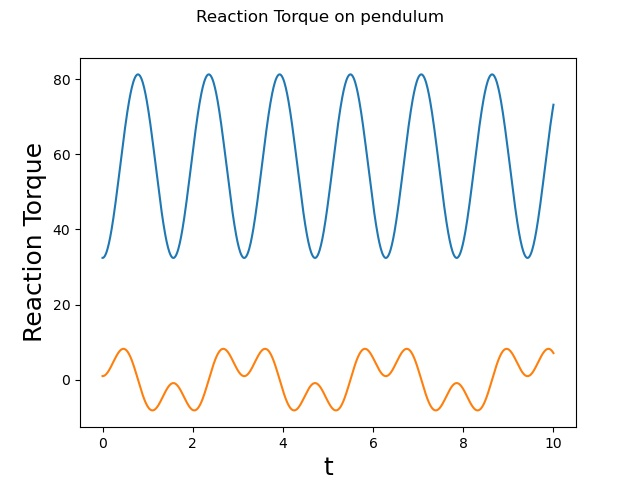
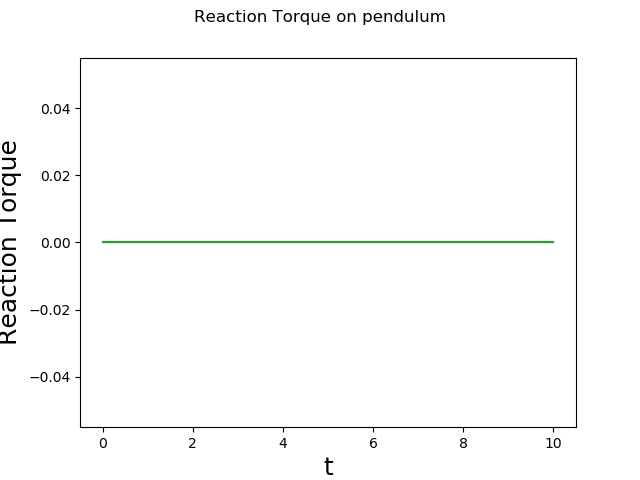
Working single-body dynamics solver

diff --git a/hw8/simEngine3D_A8P1.py b/hw8/simEngine3D_A8P1.py
@@ -1,11 +1,12 @@
 from gcons import *
+from collections import namedtuple
 import sympy as sp
 import matplotlib.pyplot as plt
 
 # Physical constants
 L = 2                                   # [m] - length of the bar
 t_start = 0                             # [s] - simulation start time
-h = 1e-3                               # [s] - time step size
+h = 1e-2                                # [s] - time step size
 t_end = 10                              # [s] - simulation end time
 w = 0.05                                # [m] - side length of bar
 ρ = 7800                                # [kg/m^3] - density of the bar
@@ -37,7 +38,7 @@ df = sp.lambdify(t, df_sym)
 ddf = sp.lambdify(t, ddf_sym)
 
 # Read from file, set up bodies + constraints
-(bodies, constraints) = ReadModelFile('hw6/revJoint.mdl')
+(bodies, constraints) = ReadModelFile('hw8/revJointSingle.mdl')
 
 pendulum = Body(bodies[0])
 ground = Body({}, True)
@@ -74,8 +75,10 @@ e_param = EulerCon(pendulum)
 z_axis = np.array([[0], [0], [1]])
 y_axis = np.array([[0], [1], [0]])
 
-p0 = (RotAxis(y_axis, np.pi/2) * RotAxis(z_axis, θ0 - np.pi/2)).arr
-r0 = np.array([[0], [L * np.sin(θ0)], [L * np.cos(θ0)]])
+# p0 = (RotAxis(y_axis, np.pi/2) * RotAxis(z_axis, θ0 - np.pi/2)).arr
+# r0 = np.array([[0], [L * np.sin(θ0)], [L * np.cos(θ0)]])
+p0 = np.array([[0.6533], [0.2706], [0.6533], [0.2706]])
+r0 = np.array([[0], [1.4142], [-1.4142]])
 q0 = np.concatenate((r0, p0), axis=0)
 
 # Didn't read these in from the file, so set them now
@@ -130,8 +133,8 @@ Jp = 4*G.T @ J @ G
 # Fg is constant, defined above
 
 # Here we solve the larger system and redundantly retrieve r̈ and p̈
-LHS_mat = np.block([[M, np.zeros((3*nb, 4*nb)), np.zeros((3*nb, nb)), Φ_r.T], [np.zeros((4*nb, 3*nb)), Jp, pendulum.p, Φ_p.T], [
-    np.zeros((nb, 3*nb)), pendulum.p.T, 0, np.zeros((nb, nc))], [Φ_r, Φ_p, np.zeros((nc, nb)), np.zeros((nc, nc))]])
+LHS_mat = np.block([[M, np.zeros((3*nb, 4*nb)), np.zeros((3*nb, nb)), Φ_r.T], [np.zeros((4*nb, 3*nb)), Jp, 2*pendulum.p, Φ_p.T], [
+    np.zeros((nb, 3*nb)), 2*pendulum.p.T, 0, np.zeros((nb, nc))], [Φ_r, Φ_p, np.zeros((nc, nb)), np.zeros((nc, nc))]])
 RHS_mat = np.block([[Fg], [τ], [γp], [γ]])
 
 z = np.linalg.solve(LHS_mat, RHS_mat)
@@ -145,50 +148,35 @@ pendulum.ddr = ddr
 pendulum.ddp = ddp
 O_acc[0, :] = pendulum.ddr.T
 
-# Set BDF values
-BDF1_β = 1
-BDF1_α0 = 1
-BDF1_α1 = -1
-BDF1_α2 = 0
+# So we can use these the first time around
+r_prev = pendulum.r
+p_prev = pendulum.p
 
-BDF2_β = 2/3
-BDF2_α0 = 1
-BDF2_α1 = -4/3
-BDF2_α2 = 1/3
+dr_prev = pendulum.dr
+dp_prev = pendulum.dp
+
+# Setup BDF values
+BDFVals = namedtuple('BDFVals', ['β', 'α'])
+bdf1 = BDFVals(β=1, α=[-1, 1, 0])
+bdf2 = BDFVals(β=2/3, α=[-1, 4/3, -1/3])
 
 for i, t in enumerate(t_grid):
     if i == 0:
         continue
 
-    if i == 1:
-        β = BDF1_β
-        α0 = -BDF1_α0
-        α1 = -BDF1_α1
-        α2 = -BDF1_α2
+    bdf = bdf1 if i == 1 else bdf2
+    C_dr = bdf.α[1]*pendulum.dr + bdf.α[2]*dr_prev
+    C_r = bdf.α[1]*pendulum.r + bdf.α[2]*r_prev + bdf.β*h*C_dr
 
-        C_r = α1*pendulum.r
-        C_dr = α1*pendulum.dr
-
-        C_p = α1*pendulum.p
-        C_dp = α1*pendulum.dp
-    else:
-        β = BDF2_β
-        α0 = -BDF2_α0
-        α1 = -BDF2_α1
-        α2 = -BDF2_α2
-
-        C_r = α1*pendulum.r + α2*r_prev
-        C_dr = α1*pendulum.dr + α2*dr_prev
-
-        C_p = α1*pendulum.p + α2*p_prev
-        C_dp = α1*pendulum.dp + α2*dp_prev
+    C_dp = bdf.α[1]*pendulum.dp + bdf.α[2]*dp_prev
+    C_p = bdf.α[1]*pendulum.p + bdf.α[2]*p_prev + bdf.β*h*C_dp
 
     Ψ0 = np.concatenate(
         (M, np.zeros((3*nb, 4*nb)), np.zeros((3*nb, nb)), Φ_r.T), axis=1)
-    Ψ1 = np.concatenate(
-        (np.zeros((4*nb, 3*nb)), Jp, pendulum.p, Φ_p.T), axis=1)
-    Ψ2 = np.concatenate(
-        (np.zeros((nb, 3*nb)), pendulum.p.T, np.zeros((nb, nb)), np.zeros((nb, nc))), axis=1)
+    Ψ1 = np.concatenate((np.zeros((4*nb, 3*nb)), Jp,
+                         2*pendulum.p, Φ_p.T), axis=1)
+    Ψ2 = np.concatenate((np.zeros((nb, 3*nb)), 2*pendulum.p.T,
+                         np.zeros((nb, nb)), np.zeros((nb, nc))), axis=1)
     Ψ3 = np.concatenate((Φ_r, Φ_p, np.zeros((nc, nb)),
                          np.zeros((nc, nc))), axis=1)
     Ψ = np.block([[Ψ0], [Ψ1], [Ψ2], [Ψ3]])
@@ -203,6 +191,12 @@ for i, t in enumerate(t_grid):
     # Setup and do Newton-Raphson Iteration
     k = 0
     while True:
+        pendulum.r = C_r + bdf.β**2 * h**2 * pendulum.ddr
+        pendulum.p = C_p + bdf.β**2 * h**2 * pendulum.ddp
+
+        pendulum.dr = C_dr + bdf.β*h*pendulum.ddr
+        pendulum.dp = C_dp + bdf.β*h*pendulum.ddp
+
         # Compute values needed for the g matrix
         # We can't move this outside the loop since the g_cons
         #   use e.g. body.p in their computations and body.p gets updated as we iterate
@@ -211,33 +205,26 @@ for i, t in enumerate(t_grid):
         Φ_r = Φ_q[:, 0:3]
         Φ_p = Φ_q[:, 3:7]
         G = pendulum.G()
+        dG = pendulum.dG()
         Jp = 4*G.T @ J @ G
+        τ = 8*dG.T @ J @ dG @ pendulum.p
         # M is constant, defined above
-
-        τ = 8*pendulum.dG().T @ J @ G @ pendulum.dp
         # Fg is constant, defined above
 
         # Form g matrix
         g0 = M @ pendulum.ddr + Φ_r.T @ λ - Fg
-        g1 = Jp @ pendulum.ddp + Φ_p.T @ λ + pendulum.p * λp - τ
-        g2 = 1/(β**2 * h**2) * e_param.GetPhi(t)
-        g3 = 1/(β**2 * h**2) * Φ
+        g1 = Jp @ pendulum.ddp + Φ_p.T @ λ + 2*pendulum.p * λp - τ
+        g2 = 1/(bdf.β**2 * h**2) * e_param.GetPhi(t)
+        g3 = 1/(bdf.β**2 * h**2) * Φ
         g = np.block([[g0], [g1], [g2], [g3]])
 
-        # Δz = np.linalg.solve(Ψ, -g)
-        Δz = -Ψ_inv @ g
+        Δz = Ψ_inv @ -g
         z = z + Δz
 
         pendulum.ddr = z[0:3]
         pendulum.ddp = z[3:7]
         λp = z[7]
         λ = z[8:8+nc]
-
-        pendulum.r = C_r + β**2 * h**2 * pendulum.ddr
-        pendulum.p = C_p + β**2 * h**2 * pendulum.ddp
-
-        pendulum.dr = C_dr + β*h*pendulum.ddr
-        pendulum.dp = C_dp + β*h*pendulum.ddp
 
         print('i: ' + str(i) + ', k: ' + str(k) +
               ', norm: ' + str(np.linalg.norm(Δz)))

diff --git a/hw8/gcons.py b/hw8/gcons.py
@@ -528,7 +528,7 @@ class EulerCon:
         self.body = body
 
     def GetPhi(self, t):
-        return 0.5*self.body.p.T @ self.body.p - 0.5
+        return self.body.p.T @ self.body.p - 1
 
     def GetGamma(self, t):
         return -2 * (self.body.dp.T @ self.body.dp)
@@ -540,7 +540,7 @@ class EulerCon:
         return np.zeros((1, 3))
 
     def GetPhiP(self, t):
-        return self.body.p.T
+        return 2*self.body.p.T
 
     def GetPhiQ(self, t):
         return np.concatenate((self.GetPhiR(t), self.GetPhiP(t)), axis=1)
